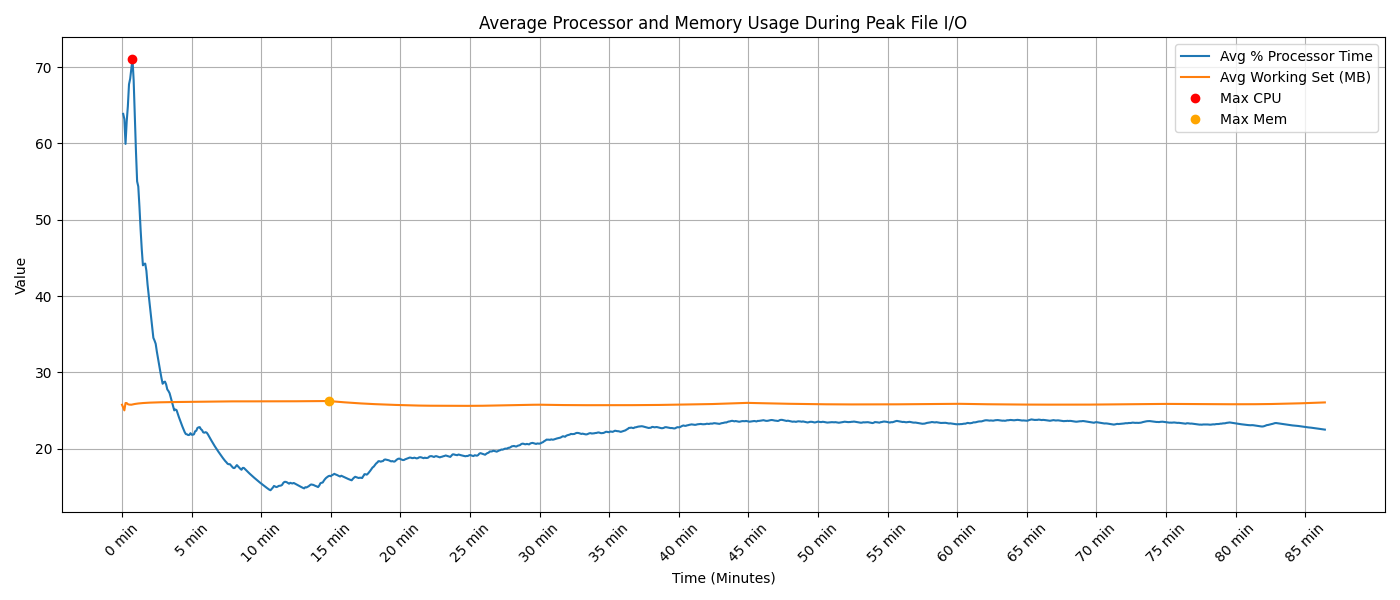
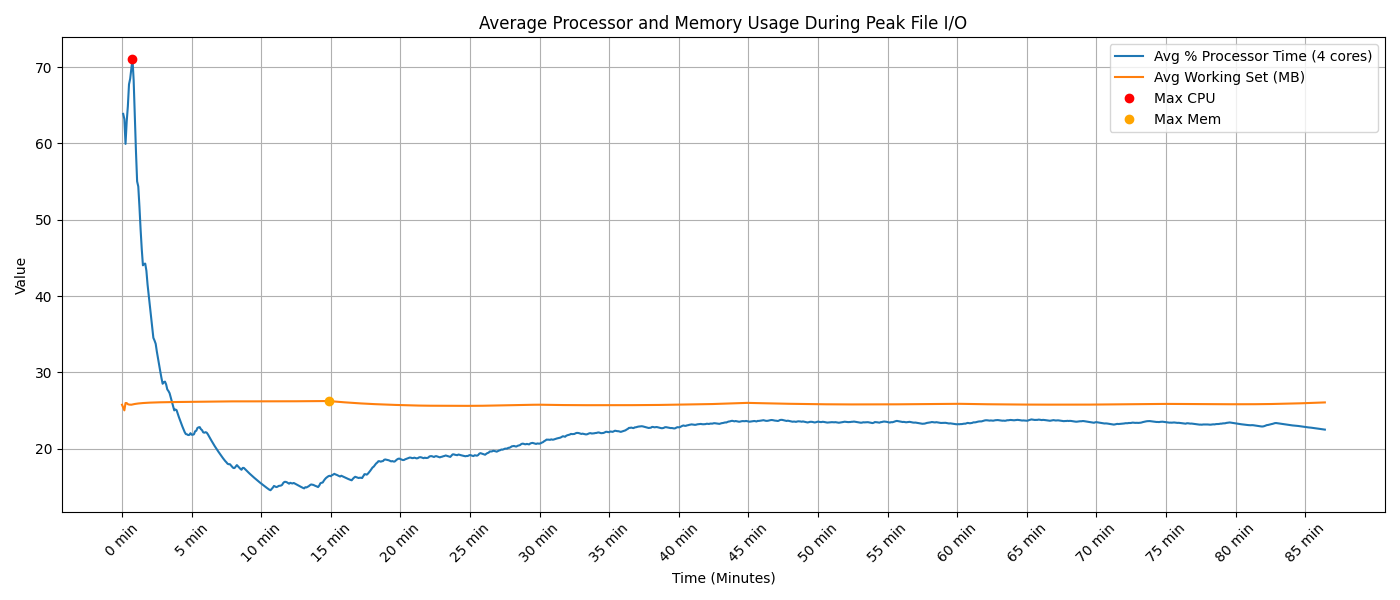
.

Changed region(s): [[0.7986, 0.09, 0.9829, 0.21]]

diff --git a/VmControl/plot.py b/VmControl/plot.py
@@ -36,7 +36,7 @@ x_tick_labels = [f"{(i*5)//60} min" for i in x_ticks]
 
 # Vẽ và lưu ảnh
 plt.figure(figsize=(14, 6))
-plt.plot(df["Avg_ProcessorTime"], label="Avg % Processor Time")
+plt.plot(df["Avg_ProcessorTime"], label="Avg % Processor Time (4 cores)")
 plt.plot(df["Avg_WorkingSet_MB"], label="Avg Working Set (MB)")
 plt.plot(max_proc_idx, max_proc_time, 'ro', label="Max CPU")
 plt.plot(max_mem_idx, max_mem, 'o', color='orange', label="Max Mem")
